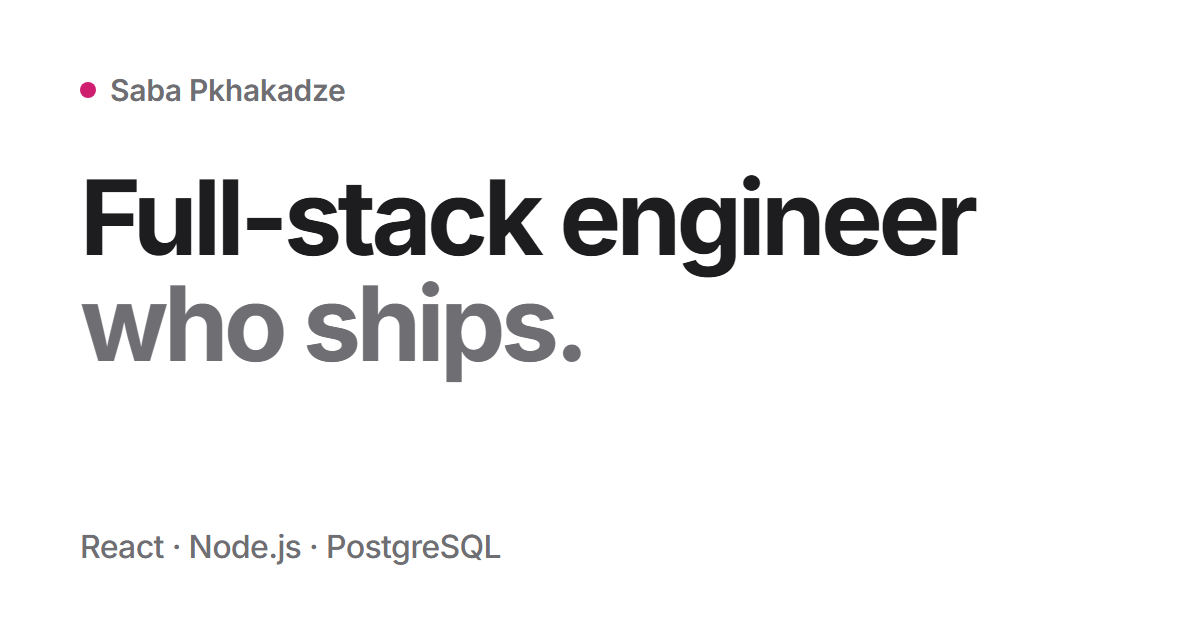
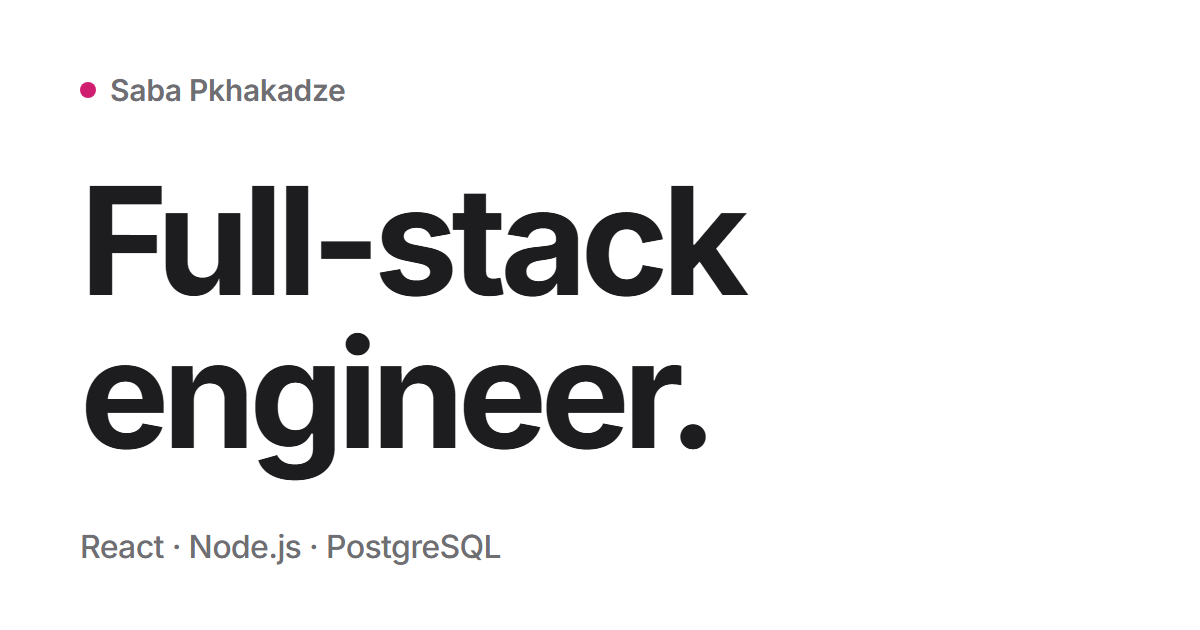
linked skills table; plain hero headline; remove Twitter tag

Changed region(s): [[0.0617, 0.2714, 0.8325, 0.7841]]

diff --git a/src/components/sections/About.tsx b/src/components/sections/About.tsx
@@ -1,3 +1,4 @@
+import { useState } from "react";
 import { about, proof, skills } from "@/data/portfolio";
 import { Section } from "@/components/Section";
 import { SectionHeading } from "@/components/SectionHeading";
@@ -5,9 +6,13 @@ import { Reveal } from "@/components/Reveal";
 import { CountUp } from "@/components/CountUp";
 import { cn } from "@/lib/utils";
 
-const tools = skills.flatMap((g) => g.items);
-
 export function About() {
+  // Index of the "How I build" tile that is hovered, focused or tapped.
+  const [hovered, setHovered] = useState<number | null>(null);
+  const [pinned, setPinned] = useState<number | null>(null);
+  const focused = hovered ?? pinned;
+  const lit = new Set(focused === null ? [] : proof[focused].uses);
+
   return (
     <Section id="about" tone="soft">
       <SectionHeading title="About." />
@@ -29,65 +34,93 @@ export function About() {
       </Reveal>
 
       <Reveal delay={100} className="mt-16">
-        <h3 className="mb-6 text-3xl font-semibold tracking-[-0.03em] sm:text-4xl">
+        <h3 className="text-3xl font-semibold tracking-[-0.03em] sm:text-4xl">
           How I build.
         </h3>
+        <p className="mb-6 mt-2 text-muted-foreground">
+          Hover or tap a card to see which tools it uses.
+        </p>
 
-        <ul className="grid gap-4 sm:grid-cols-2 lg:grid-cols-4">
-          {proof.map((item) => (
-            <li
-              key={item.title}
-              className="group flex flex-col rounded-tile bg-card p-7 transition-transform duration-300 hover:-translate-y-1"
-            >
-              <p className="text-lg font-semibold text-muted-foreground">
-                {item.title}
-              </p>
-              <p className="mt-3 whitespace-nowrap text-5xl font-bold tracking-[-0.045em] sm:text-[3.2rem]">
-                {item.count ? (
-                  <CountUp
-                    from={item.count.from}
-                    to={item.count.to}
-                    suffix={item.count.suffix}
-                  />
-                ) : (
-                  item.text
+        <ul
+          className="grid gap-4 sm:grid-cols-2 lg:grid-cols-4"
+          onMouseLeave={() => setHovered(null)}
+        >
+          {proof.map((item, i) => (
+            <li key={item.title} className="flex">
+              <button
+                type="button"
+                aria-pressed={pinned === i}
+                onMouseEnter={() => setHovered(i)}
+                onFocus={() => setHovered(i)}
+                onBlur={() => setHovered(null)}
+                onClick={() => setPinned((p) => (p === i ? null : i))}
+                className={cn(
+                  "flex w-full flex-col rounded-tile bg-card p-7 text-left transition-all duration-300 hover:-translate-y-1",
+                  focused === i && "ring-2 ring-primary"
                 )}
-              </p>
-              <p className="mt-4 flex-1 text-[15px] leading-relaxed text-muted-foreground">
-                {item.description}
-              </p>
-              <ul className="mt-6 flex flex-wrap gap-1.5">
-                {item.tags.map((t) => (
-                  <li
-                    key={t}
-                    className="rounded-full bg-secondary px-3 py-1 text-xs font-medium"
-                  >
-                    {t}
-                  </li>
-                ))}
-              </ul>
+              >
+                <span className="text-lg font-semibold text-muted-foreground">
+                  {item.title}
+                </span>
+                <span className="mt-3 block whitespace-nowrap text-5xl font-bold tracking-[-0.045em] sm:text-[3.2rem]">
+                  {item.count ? (
+                    <CountUp
+                      from={item.count.from}
+                      to={item.count.to}
+                      suffix={item.count.suffix}
+                    />
+                  ) : (
+                    item.text
+                  )}
+                </span>
+                <span className="mt-4 block text-[15px] leading-relaxed text-muted-foreground">
+                  {item.description}
+                </span>
+              </button>
             </li>
           ))}
         </ul>
       </Reveal>
 
-      {/* Slow scrolling strip of every tool from the CV. Decorative: the same
-          information is in Experience and Projects. */}
-      <div
-        aria-hidden="true"
-        className="marquee-mask mt-14 overflow-hidden"
-      >
-        <div className="marquee-track flex w-max gap-3 py-1">
-          {[...tools, ...tools].map((t, i) => (
-            <span
-              key={`${t}-${i}`}
-              className="whitespace-nowrap rounded-full bg-card px-4 py-2 text-sm font-medium text-muted-foreground"
+      <Reveal delay={100} className="mt-14">
+        <h3 className="mb-6 text-3xl font-semibold tracking-[-0.03em] sm:text-4xl">
+          Everything I use.
+        </h3>
+
+        <dl className="divide-y divide-border rounded-tile bg-card px-6 py-2 sm:px-8">
+          {skills.map((g) => (
+            <div
+              key={g.group}
+              className="grid gap-3 py-5 sm:grid-cols-[11rem_1fr] sm:gap-8"
             >
-              {t}
-            </span>
+              <dt className="text-sm font-semibold text-muted-foreground sm:pt-1.5">
+                {g.group}
+              </dt>
+              <dd>
+                <ul className="flex flex-wrap gap-2">
+                  {g.items.map((item) => {
+                    const on = lit.has(item);
+                    return (
+                      <li
+                        key={item}
+                        className={cn(
+                          "rounded-full px-3.5 py-1.5 text-sm font-medium transition-all duration-300",
+                          on
+                            ? "bg-primary text-primary-foreground"
+                            : "bg-secondary",
+                          focused !== null && !on && "opacity-30"
+                        )}
+                      >
+                        {item}
+                      </li>
+                    );
+                  })}
+                </ul>
+              </dd>
+            </div>
           ))}
-        </div>
-      </div>
+        </dl>
+      </Reveal>
     </Section>
   );
 }

diff --git a/src/data/portfolio.ts b/src/data/portfolio.ts
@@ -6,12 +6,11 @@
 export const profile = {
   name: "Saba Pkhakadze",
   role: "Full-Stack Engineer",
-  // Hero headline: the first part is bold, the second is muted.
-  headline: "Full-stack engineer",
-  headlineMuted: "who ships.",
+  // Hero headline.
+  headline: "Full-stack engineer.",
   // Short line shown under the headline in the hero.
   tagline:
-    "I build web products end to end with React, Node.js and PostgreSQL. Currently at DevsData.",
+    "I build web products end to end, from the database to the interface. Currently at DevsData.",
   // Numbers shown under the hero. Keep these in sync with the CV.
   stats: [
     { value: "19 ms", label: "sprint analytics, down from 3.9 s" },
@@ -47,7 +46,8 @@ export type Proof = {
   /** A big word shown instead of a number. */
   text?: string;
   description: string;
-  tags: string[];
+  /** Skill names (exactly as in `skills`) this tile lights up in the table. */
+  uses: string[];
 };
 
 // Facts only from the CV (FlowDesc.app). Keep in sync with the CV.
@@ -57,28 +57,36 @@ export const proof: Proof[] = [
     count: { from: 3900, to: 19, suffix: " ms" },
     description:
       "Sprint analytics cut from 3.9 s to 19 ms at 20,000 issues. Project deletion went from 9 s to 0.6 s.",
-    tags: ["PostgreSQL", "Drizzle"],
+    uses: ["PostgreSQL", "Drizzle ORM"],
   },
   {
     title: "Tested.",
     count: { from: 0, to: 700, suffix: "+" },
     description:
       "Unit and API tests, plus a 280+ test Playwright suite running in CI across 4 parallel shards.",
-    tags: ["Playwright", "Jest", "GitHub Actions"],
+    uses: ["GitHub Actions", "CI/CD"],
   },
   {
     title: "Secure.",
     text: "Argon2id",
     description:
       "JWT with rotating refresh tokens, Google and GitHub sign-in, rate limiting and a strict CSP.",
-    tags: ["JWT", "CSP", "Rate limiting"],
+    uses: ["Node.js", "Express.js"],
   },
   {
     title: "AI-ready.",
     text: "MCP",
     description:
       "A published MCP server on npm with provenance, and an in-app RAG assistant with cited answers and prompt-injection defenses.",
-    tags: ["MCP", "RAG", "Claude Code"],
+    uses: [
+      "Claude Code",
+      "OpenAI Codex",
+      "Custom Claude Skills",
+      "MCP Server Development",
+      "RAG",
+      "LLM Integration (Llama, Cloudflare Workers AI)",
+      "Postgres full-text search",
+    ],
   },
 ];
 

diff --git a/index.html b/index.html
@@ -34,11 +34,10 @@
     <meta property="og:image" content="https://sabbapxakadze.github.io/MyPortfolio/og.png" />
     <meta property="og:image:width" content="1200" />
     <meta property="og:image:height" content="630" />
-    <meta property="og:image:alt" content="Saba Pkhakadze – Full-stack engineer who ships." />
+    <meta property="og:image:alt" content="Saba Pkhakadze – Full-stack engineer." />
 
     <!-- Twitter Card Tags -->
     <meta name="twitter:card" content="summary_large_image" />
-    <meta name="twitter:site" content="@sabbapxakadze" />
     <meta name="twitter:image" content="https://sabbapxakadze.github.io/MyPortfolio/og.png" />
 
     <script type="module" src="/src/main.tsx"></script>

diff --git a/src/index.css b/src/index.css
@@ -140,29 +140,7 @@
     }
   }
 
-  /* Slow, endless strip of tools (content is duplicated, so -50% loops) */
-  .marquee-track {
-    animation: marquee 70s linear infinite;
-  }
-  .marquee-track:hover {
-    animation-play-state: paused;
-  }
-  .marquee-mask {
-    mask-image: linear-gradient(to right, transparent, #000 8%, #000 92%, transparent);
-    -webkit-mask-image: linear-gradient(to right, transparent, #000 8%, #000 92%, transparent);
-  }
-
-  @keyframes marquee {
-    to {
-      transform: translateX(-50%);
-    }
-  }
-
   @media (prefers-reduced-motion: reduce) {
-    .marquee-track {
-      animation: none !important;
-    }
-
     *,
     *::before,
     *::after {

diff --git a/src/components/sections/Hero.tsx b/src/components/sections/Hero.tsx
@@ -22,7 +22,6 @@ export function Hero() {
           style={delay(80)}
         >
           {profile.headline}
-          <span className="text-muted-foreground"> {profile.headlineMuted}</span>
         </h1>
 
         <p
